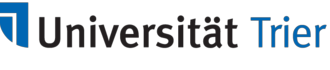
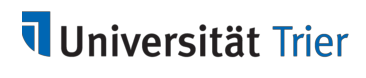
v1

Changed region(s): [[0.0, 0.0286, 1.0, 0.7429], [0.8485, 0.2286, 0.8788, 0.3143]]

diff --git a/index.html b/index.html
@@ -34,7 +34,7 @@
 <p><strong>Slides: <a href="https://dh-trier.github.io/beccaria/#/">dh-trier.github.io/beccaria/</a></strong></p>
 <p><strong><emph>Digital Methods and Resources in Legal History | March 5, 2021</strong></p>
 <hr/>
-<img height="50" data-src="img/basics/uni-trier.png">&nbsp;&nbsp;&nbsp;&nbsp;&nbsp;&nbsp;&nbsp;&nbsp;&nbsp;&nbsp;&nbsp;<img height="70" data-src="img/basics/tcdh-slim.png">
+<img height="65" data-src="img/basics/uni-trier.png">&nbsp;&nbsp;&nbsp;&nbsp;&nbsp;&nbsp;&nbsp;&nbsp;&nbsp;&nbsp;&nbsp;<img height="70" data-src="img/basics/tcdh-slim.png">
 
 ::
 - Welcome to this talk. It's nice to be here! 
@@ -60,7 +60,7 @@
 - Three things I'd like to talk about
 - A bit about the treatise "Dei delitti e delle pene", its editions and translations in the 18th century
 - Then a short interlude about our project
-- Then a bit more on what we're trying to do with this multilingual traditions of texts
+- Then a bit more on what we're trying to do with this multilingual tradition of texts
 
 
 --
@@ -70,7 +70,7 @@
 
 ::
 - Beccaria: 
-  - enlightenment philosopher; 
+  - enlightenment philosopher; active in the second half of the 18-C
   - key author for the foundation of modern criminal law; 
 - We're particularly interested in the editions and translations of his main work
 - What follows are just a few examples of these editions
@@ -137,25 +137,25 @@
 
 ---
 ### Project profile
-* Franco-german research project (Trier and Paris)
-* Cooperation between
+* Franco-german research project (Trier and Paris) <!-- .element: class="fragment" data-fragment-index="1" -->
+* Cooperation between <!-- .element: class="fragment" data-fragment-index="2" -->
   * EHESS Paris (Falk Bretschneider, Rainer Maria Kiesow)
   * TCDH Trier (Claudine Mouline, Christof Schöch) 
-* Exploratory project supported by
+* Exploratory project supported by <!-- .element: class="fragment" data-fragment-index="3" -->
   * Fondation Maison des Sciences de l'homme
   * Villa Vigoni - Centro italo-tedesco per il dialogo europeo
-* Focus on historical, multilingual, digital lexicography in the area of legal discourse
-* First pilot / use case for a broader study: _Dei delitti e delle pene_
+* Focus on historical, multilingual, digital lexicography in the area of legal discourse <!-- .element: class="fragment" data-fragment-index="4" -->
+* First pilot / use case for a broader study: _Dei delitti e delle pene_ <!-- .element: class="fragment" data-fragment-index="5" -->
 
 
 ---
 ### Work so far
-* Research and interdisciplinary exchange at the same time
+* Research and interdisciplinary exchange at the same time <!-- .element: class="fragment" data-fragment-index="1" -->
   * Several work meetings
   * Workshop for ECI in Paris 
-* Investigation into the history of editions and translations (Chiffoleau, see above)
-* Digitisation: Identification, scanning, OCR of the editions and translations
-* Developed a data model and research scenarios for this material
+* Investigation into the history of editions and translations (Chiffoleau, see above) <!-- .element: class="fragment" data-fragment-index="2" -->
+* Digitisation: Identification, scanning, OCR of the editions and translations <!-- .element: class="fragment" data-fragment-index="3" -->
+* Developed and tested a data model and research scenarios for this material <!-- .element: class="fragment" data-fragment-index="4" -->
 
 ::
 - What have we done so far? 
@@ -224,10 +224,11 @@
 
 ---
 ### Encoding
-1. Alignment of sentences across languages<br/>(challenges: insertions, reorganizations, free translation)
-1. Linguistic annotation with lemma and POS<br/>(challenges: orthographic variation)
-1. Identification and annotation of lexemes corresponding to "meta-lexemes" (semi-automatic)
-1. Everything is encoded in XML-TEI (e.g. for TXM)
+1. Metadata (language, year)  <!-- .element: class="fragment" data-fragment-index="1" -->
+1. Alignment of sentences across languages<br/>(challenges: insertions, reorganizations, free translation) <!-- .element: class="fragment" data-fragment-index="2" -->
+1. Linguistic annotation with lemma and POS<br/>(challenges: orthographic variation) <!-- .element: class="fragment" data-fragment-index="3" -->
+1. Identification and annotation of lexemes corresponding to "meta-lexemes" (semi-automatic) <!-- .element: class="fragment" data-fragment-index="4" -->
+1. Everything is encoded in XML (compatible with TEI and TXM) <!-- .element: class="fragment" data-fragment-index="5" -->
 
 ::
 - We follow these basic three steps
@@ -272,12 +273,12 @@
 
 ---
 ### Next steps
-* Quantatively
-  * Automation, automation, automation (alignment, meta-lexemes)
-  * Based on this: increase the scale (more, complete, texts)
-* Qualitatively
+* Qualitatively <!-- .element: class="fragment" data-fragment-index="1" -->
   * Better conceptual basis for the inventory of lexemes
   * Integrate metalexemes and texts into the LOD paradigm
+* Quantatively <!-- .element: class="fragment" data-fragment-index="2" -->
+  * Automation, automation, automation (alignment, meta-lexemes)
+  * Based on this: increase the scale (more, complete, texts)
 
 ::
 - I think it has become clear where we stand: 
